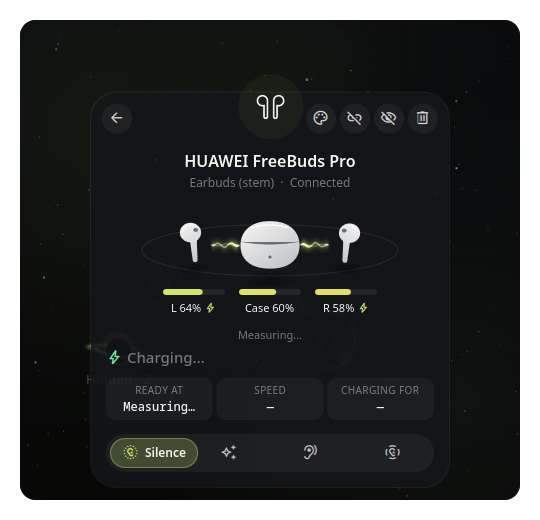
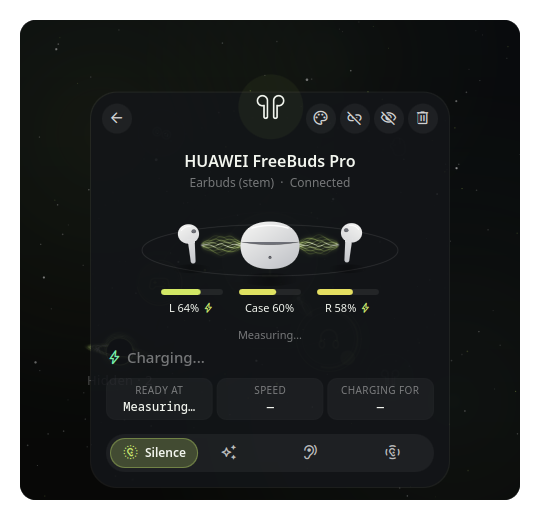
Magnetic field-line charging beam; charging buds closer to the case
The beam is now many faint field lines fanning out into a spindle between
the charger and the device, each waving at its own pace. Buds charging in
their case glide closer, their battery bar following them.

diff --git a/components/EarbudsTrio.qml b/components/EarbudsTrio.qml
@@ -53,7 +53,9 @@ Item {
 
     // A bud charging in its case glides toward it, then a beam appears
     readonly property bool caseHere: !!parts.case
-    readonly property real dockSpread: caseSize * 0.5 + budSize * 0.5 + 22
+    // Close to the case, but its battery bar (which follows it) never meets
+    // the case's label, even on a narrow card
+    readonly property real dockSpread: Math.max(caseSize * 0.5 + budSize * 0.5 + 16, 78)
     readonly property bool leftDocked: caseHere && (parts.left?.charging ?? false)
     readonly property bool rightDocked: caseHere && (parts.right?.charging ?? false)
     property real leftSpread: leftDocked ? dockSpread : spread
@@ -79,8 +81,8 @@ Item {
         property real side: 1             // -1 left, 1 right
         property real spreadNow: 0
         property bool docked: false
-        readonly property real from: trio.caseSize * 0.44
-        readonly property real len: Math.max(0, spreadNow - from - trio.budSize * 0.36)
+        readonly property real from: trio.caseSize * 0.4
+        readonly property real len: Math.max(0, spreadNow - from - trio.budSize * 0.18)
         x: trio.cx
         y: trio.cy
         rotation: side < 0 ? 180 : 0
@@ -96,8 +98,8 @@ Item {
             x: beam.from
             y: -height / 2
             width: beam.len
-            height: 16
-            amplitude: 2.2
+            height: 26
+            amplitude: 1.4
             wavelength: 14
             running: trio.animate
         }

diff --git a/components/EnergyBeam.qml b/components/EnergyBeam.qml
@@ -1,8 +1,8 @@
 import QtQuick
 import qs.Common
 
-// A charging beam along the item's width (see shaders/beam.frag): waving
-// light strands with pulses flowing toward the far end. The wave phase is
+// A charging beam along the item's width (see shaders/beam.frag): faint
+// magnetic field lines fanning out between both ends, pulses flowing along. The wave phase is
 // animated on the render thread, only while `running` and visible.
 ShaderEffect {
     id: beam

diff --git a/components/DeviceBody.qml b/components/DeviceBody.qml
@@ -370,8 +370,8 @@ Item {
             x: chargeFlow.start
             y: -height / 2
             width: chargeFlow.span
-            height: 24
-            amplitude: 3
+            height: 44
+            amplitude: 2
             wavelength: 38
             running: chargeFlow.running
         }
